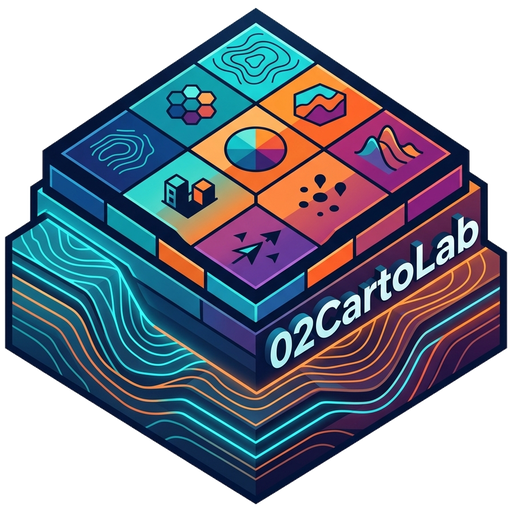
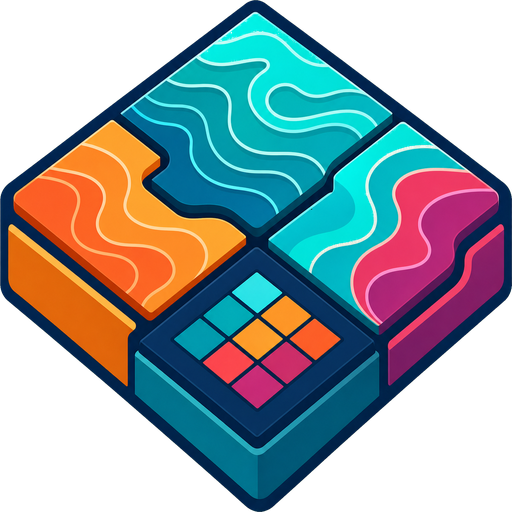
Release v1.0.1
Fix isometric layer identity and redesign full-bleed icon

diff --git a/ui/cartolab_dashboard.py b/ui/cartolab_dashboard.py
@@ -69,6 +69,7 @@ from ..core.qgis_25d_style import (
     looks_like_floor_count_field,
     normalise_hex_color,
 )
+from ..core.utils import resolve_layers_by_id
 
 
 IS_QGIS4 = int(getattr(Qgis, "QGIS_VERSION_INT", 0)) >= 40000
@@ -2949,12 +2950,20 @@ class CartoLabDashboard(_QDialogBase):
                 "Select at least 2 layers from the list above.",
             )
             return
-        selected_names = [item.text() for item in selected_items]
+        selected_ids = [
+            item.data(Qt.ItemDataRole.UserRole) for item in selected_items]
         all_layers = QgsProject.instance().mapLayers()
-        layers = [lyr for name, lyr in all_layers.items() if lyr.name() in selected_names]
+        layers = resolve_layers_by_id(selected_ids, all_layers, limit=8)
+        if len(layers) < 2:
+            QMessageBox.warning(
+                self, "Isometric Stack",
+                "Two selected layers are no longer available. Refresh the "
+                "project layers and select them again.",
+            )
+            return
         try:
             from ..layout.isometric_stacker import create_isometric_stack_layout
-            layout = create_isometric_stack_layout(layers[:8])
+            layout = create_isometric_stack_layout(layers)
             self._refresh_layout_combo()
             self.layout_combo.setCurrentText(layout.name())
             self._open_in_designer(layout)
@@ -3044,7 +3053,9 @@ class CartoLabDashboard(_QDialogBase):
         if hasattr(self, "iso_layer_list"):
             self.iso_layer_list.clear()
             for layer in layers:
-                self.iso_layer_list.addItem(layer.name())
+                item = QListWidgetItem(layer.name())
+                item.setData(Qt.ItemDataRole.UserRole, layer.id())
+                self.iso_layer_list.addItem(item)
         if hasattr(self, "layout_combo"):
             self._refresh_layout_combo()
         if hasattr(self, "qs_layer_combo"):

diff --git a/tests/test_core.py b/tests/test_core.py
@@ -996,10 +996,29 @@ check("25D preset terracotta_mediterranean exists", "terracotta_mediterranean" i
 check("25D floor palette turbo_height exists", "turbo_height" in q25.FLOOR_BAND_PALETTES)
 check("25D floor palette viridis_height exists", "viridis_height" in q25.FLOOR_BAND_PALETTES)
 
-from zero2cartolab.core.utils import safe_float, safe_int
+from zero2cartolab.core.utils import (
+    resolve_layers_by_id,
+    safe_float,
+    safe_int,
+)
 check("safe_float cleans meter suffix '8 m'", safe_float("8 m") == 8.0)
 check("safe_float cleans area suffix '15.5 sqm'", safe_float("15.5 sqm") == 15.5)
 check("safe_int cleans floor suffix '4 floors'", safe_int("4 floors") == 4)
+
+_same_name_a = object()
+_same_name_b = object()
+_resolved = resolve_layers_by_id(
+    ["layer-b", "stale", "layer-a", "layer-b"],
+    {"layer-a": _same_name_a, "layer-b": _same_name_b},
+)
+check(
+    "isometric selection resolves IDs, ignores stale/duplicate IDs and keeps order",
+    _resolved == [_same_name_b, _same_name_a],
+)
+check(
+    "isometric selection respects a zero layer limit",
+    resolve_layers_by_id(["layer-a"], {"layer-a": _same_name_a}, limit=0) == [],
+)
 
 from zero2cartolab.layout import map_sheet as ms
 check("create_map_sheet is callable", callable(ms.create_map_sheet))

diff --git a/core/utils.py b/core/utils.py
@@ -11,6 +11,32 @@ import math
 from typing import Any, Optional
 
 
+def resolve_layers_by_id(
+        layer_ids: list[str], layer_lookup: dict, limit: int = 8) -> list:
+    """Resolve a UI layer selection without relying on non-unique names.
+
+    QGIS permits several project layers to share the same display name.  UI
+    controls must therefore carry layer IDs and preserve the user's selected
+    order.  Stale IDs are ignored because layers may be removed while a dialog
+    remains open.
+    """
+    if limit <= 0:
+        return []
+    resolved = []
+    seen = set()
+    for layer_id in layer_ids:
+        if layer_id in seen:
+            continue
+        layer = layer_lookup.get(layer_id)
+        if layer is None:
+            continue
+        resolved.append(layer)
+        seen.add(layer_id)
+        if len(resolved) >= limit:
+            break
+    return resolved
+
+
 def safe_float(val: Any, default: Optional[float] = None) -> Optional[float]:
     """
     Safely convert any input (QVariant, PyQGIS NULL, str, int, float, None)

diff --git a/CHANGELOG.md b/CHANGELOG.md
@@ -4,6 +4,21 @@ All notable changes to the **02CartoLab** plugin will be documented in this file
 The format is based on [Keep a Changelog](https://keepachangelog.com/en/1.0.0/),
 and this project adheres to [Semantic Versioning](https://semver.org/spec/v2.0.0.html).
 
+## [1.0.1] - 2026-08-21
+
+### Fixed
+
+- Fixed Isometric Layer Stacker resolving selected layers by non-unique display
+  names. Selections now carry stable QGIS layer IDs, preserve the user's order,
+  ignore stale/duplicate IDs, and never pull in an unselected same-name layer.
+- Corrected the stale `CITATION.cff` release version and date.
+
+### Changed
+
+- Replaced the main plugin icon with a new text-free cartographic studio mark:
+  four interlocking thematic-map tiles, contour lines and a bivariate matrix,
+  with a transparent background and zero-margin `512 x 512` alpha bounds.
+
 ## [1.0.0] - 2026-08-20
 
 ### Initial Release
